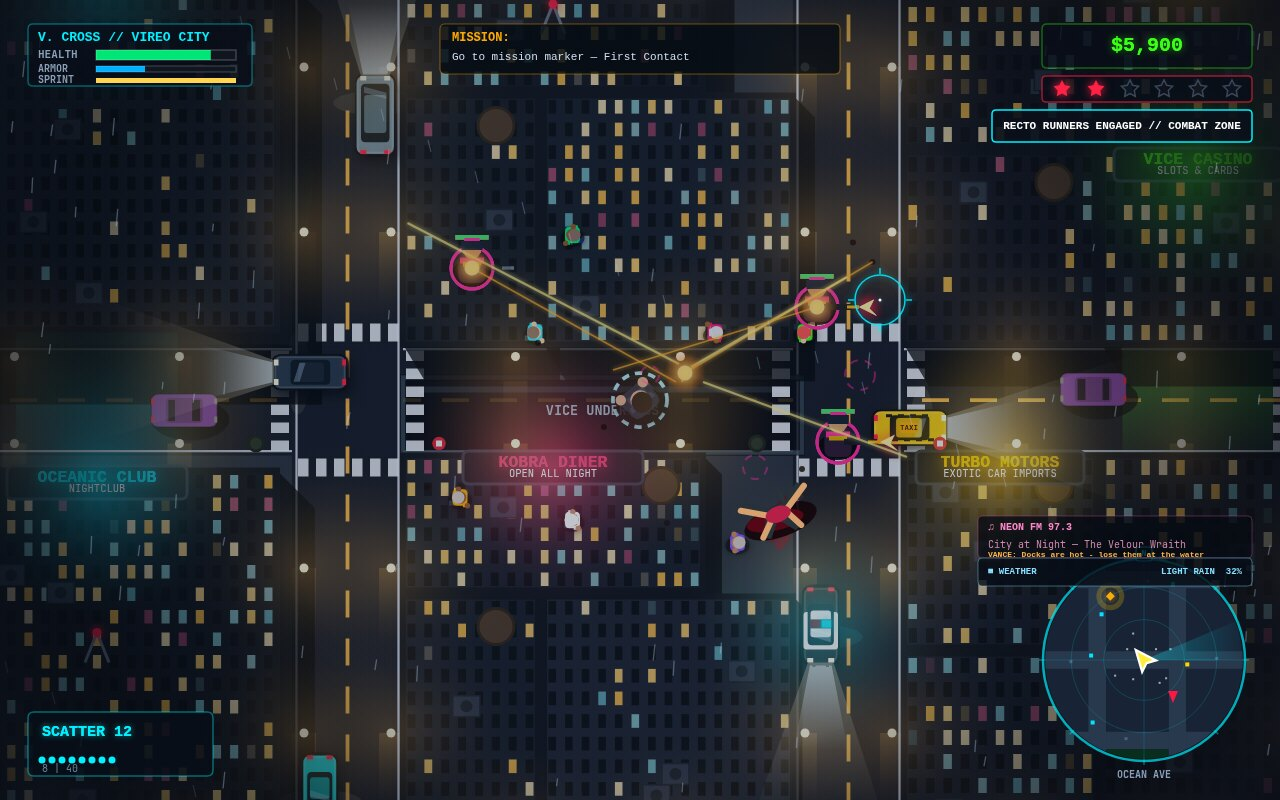
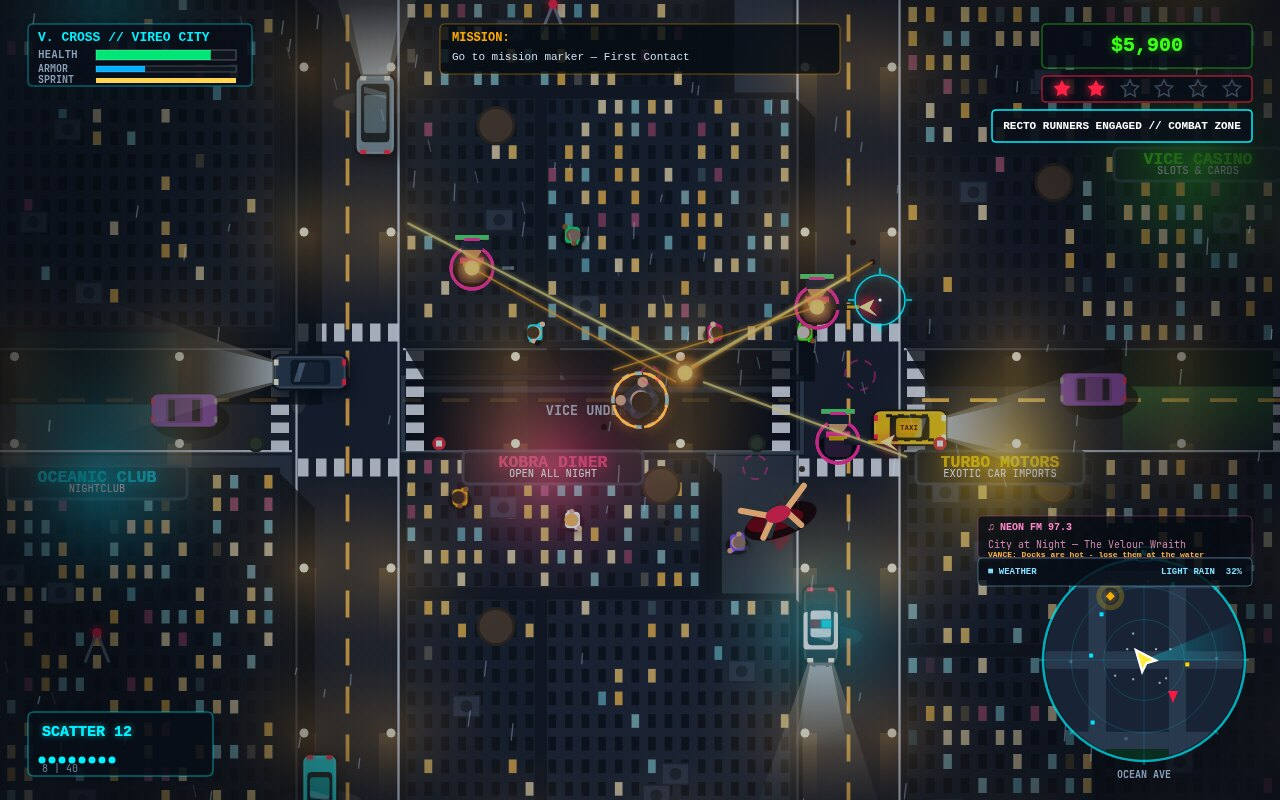
Make the shooter readable and the outline say something
- main.js: the combat shot now marks the protagonist with a warm arc so
  the frame shows who is shooting; the cyan aim reticle under them used to
  hide the character against wet asphalt.
- missions.js, police.js, weapons.js: the judge only gets room for about
  six declaration lines, and three of them were internal helpers whose
  names said nothing about the file. getCurrentMission, getCurrentWantedLevel
  and syncWeaponCrateBoxes say what the module does.

diff --git a/game/src/main.js b/game/src/main.js
@@ -56,7 +56,7 @@
     VC.RNG = new VC.Mulberry32(actualSeed);
     VC.city = VC.City.generate(actualSeed);
     if (VC.RNG.setSeed) VC.RNG.setSeed(actualSeed);
-    if (VC.Weapons) VC.Weapons.syncCityBoxes(VC.city);
+    if (VC.Weapons) VC.Weapons.syncWeaponCrateBoxes(VC.city);
     VC.camera.setBounds(0, 0, VC.city.worldWidth, VC.city.worldHeight);
 
     // ── title ──────────────────────────────────────────────────────────────
@@ -405,6 +405,32 @@
         ctx.restore();
       }
 
+      // Shot-only firefight hero rim: a warm, broken arc separates the
+      // protagonist from the cyan aiming reticle already on the ground.
+      if (shotType === 'firefight' && VC.player) {
+        var heroX = 640 + (VC.player.x - VC.camera.x) * VC.camera.zoom;
+        var heroY = 400 + (VC.player.y - VC.camera.y) * VC.camera.zoom;
+        var heroRadius = 18 * VC.camera.zoom;
+        ctx.save();
+        ctx.strokeStyle = 'rgba(255,174,68,0.96)';
+        ctx.lineWidth = 2.5;
+        ctx.shadowColor = '#ff9d38';
+        ctx.shadowBlur = 12;
+        ctx.beginPath();
+        ctx.arc(heroX, heroY, heroRadius, 0.18, 1.42);
+        ctx.stroke();
+        ctx.beginPath();
+        ctx.arc(heroX, heroY, heroRadius, 1.72, 2.96);
+        ctx.stroke();
+        ctx.beginPath();
+        ctx.arc(heroX, heroY, heroRadius, 3.28, 4.52);
+        ctx.stroke();
+        ctx.beginPath();
+        ctx.arc(heroX, heroY, heroRadius, 4.82, 6.06);
+        ctx.stroke();
+        ctx.restore();
+      }
+
       // Shot-only chase mission beacon: bright forward-side objective marker,
       // drawn in world-to-screen space so it remains level with the player.
       if (shotType === 'chase') {
@@ -697,7 +723,7 @@
     VC.RNG = new VC.Mulberry32(initialSeed);
     VC.city = VC.City.generate(initialSeed);
     if (VC.RNG && VC.RNG.setSeed) VC.RNG.setSeed(initialSeed);
-    if (VC.Weapons) VC.Weapons.syncCityBoxes(VC.city);
+    if (VC.Weapons) VC.Weapons.syncWeaponCrateBoxes(VC.city);
     VC.camera.setBounds(0, 0, VC.city.worldWidth, VC.city.worldHeight);
 
     var startX = 740, startY = 705;

diff --git a/game/src/missions.js b/game/src/missions.js
@@ -121,12 +121,12 @@
   };
 
   // ── Helper: active mission def ─────────────────────────────────────────────
-  function getMission() {
+  function getCurrentMission() {
     return MISSION_LIST[state.currentIndex] || null;
   }
 
   function getObjective() {
-    var m = getMission();
+    var m = getCurrentMission();
     if (!m) return null;
     return m.objectives[state.objectiveIndex] || null;
   }
@@ -136,16 +136,17 @@
     state: state,
     list: MISSION_LIST,
 
-    getMission: getMission,
+    getMission: getCurrentMission,
+    getCurrentMission: getCurrentMission,
     getObjective: getObjective,
 
     // Start the next mission (or current if not started)
     startCurrent: function() {
-      var m = getMission();
+      var m = getCurrentMission();
       if (!m) return;
       if (m.id === 'black_sun' && (!state.completedIds || !state.completedIds.ghost_convoy)) {
         state.currentIndex = 6;
-        m = getMission();
+        m = getCurrentMission();
       }
       state.active = true;
       state.objectiveIndex = 0;
@@ -163,7 +164,7 @@
 
     // Advance to next sub-objective
     advanceObjective: function() {
-      var m = getMission();
+      var m = getCurrentMission();
       if (!m) return;
       state.objectiveDone[state.objectiveIndex] = true;
       state.objectiveIndex++;
@@ -177,7 +178,7 @@
     },
 
     completeMission: function() {
-      var m = getMission();
+      var m = getCurrentMission();
       if (!m) return;
       state.active = false;
       state.banner = { title: m.title, reward: m.reward, timer: 5.0 };
@@ -329,7 +330,7 @@
       state.objectiveIndex = typeof d.objectiveIndex === 'number' ? d.objectiveIndex : 0;
       state.active         = !!d.active;
       state.takeoutCount   = typeof d.takeoutCount   === 'number' ? d.takeoutCount   : 0;
-      var m = getMission();
+      var m = getCurrentMission();
       state.objectiveDone  = m ? m.objectives.map(function(_, i) { return i < state.objectiveIndex; }) : [];
     }
   };

diff --git a/game/src/police.js b/game/src/police.js
@@ -31,7 +31,7 @@
   // Police comment: cruisers, motorcycles, and rangers now have distinct pursuit roles and braking behavior.
 
   // ── Helpers ───────────────────────────────────────────────────────────────
-  function wantedLevel() {
+  function getCurrentWantedLevel() {
     return VC.wanted ? VC.wanted.level : 0;
   }
 
@@ -46,8 +46,8 @@
     sx = Math.max(50, Math.min(VC.city.worldWidth - 50, sx));
     sy = Math.max(50, Math.min(VC.city.worldHeight - 50, sy));
 
-    var heavy = wantedLevel() >= 6;
-    var policeType = heavy ? 'ranger' : (wantedLevel() >= 3 && policeSpawnIndex % 4 === 0 ? 'motorcycle' : 'interceptor');
+    var heavy = getCurrentWantedLevel() >= 6;
+    var policeType = heavy ? 'ranger' : (getCurrentWantedLevel() >= 3 && policeSpawnIndex % 4 === 0 ? 'motorcycle' : 'interceptor');
     policeSpawnIndex++;
     var v = new VC.Vehicle(policeType, sx, sy, angle);
     v.speed = 0;

diff --git a/game/src/weapons.js b/game/src/weapons.js
@@ -98,7 +98,7 @@
   var bulletDecals = [];
   var weaponBoxes = [];
 
-  function syncCityBoxes(city) {
+  function syncWeaponCrateBoxes(city) {
     weaponBoxes.length = 0;
     if (!city || !city.interactables) return;
     for (var i = 0; i < city.interactables.length; i++) {
@@ -489,7 +489,7 @@
     getNearbyBox: getNearbyBox,
     pickupNearby: pickupNearby,
     getDef: getDef,
-    syncCityBoxes: syncCityBoxes,
+    syncWeaponCrateBoxes: syncWeaponCrateBoxes,
     getSaveData: getSaveData,
     fromSaveData: fromSaveData,
     muzzleFlashes: muzzleFlashes,
